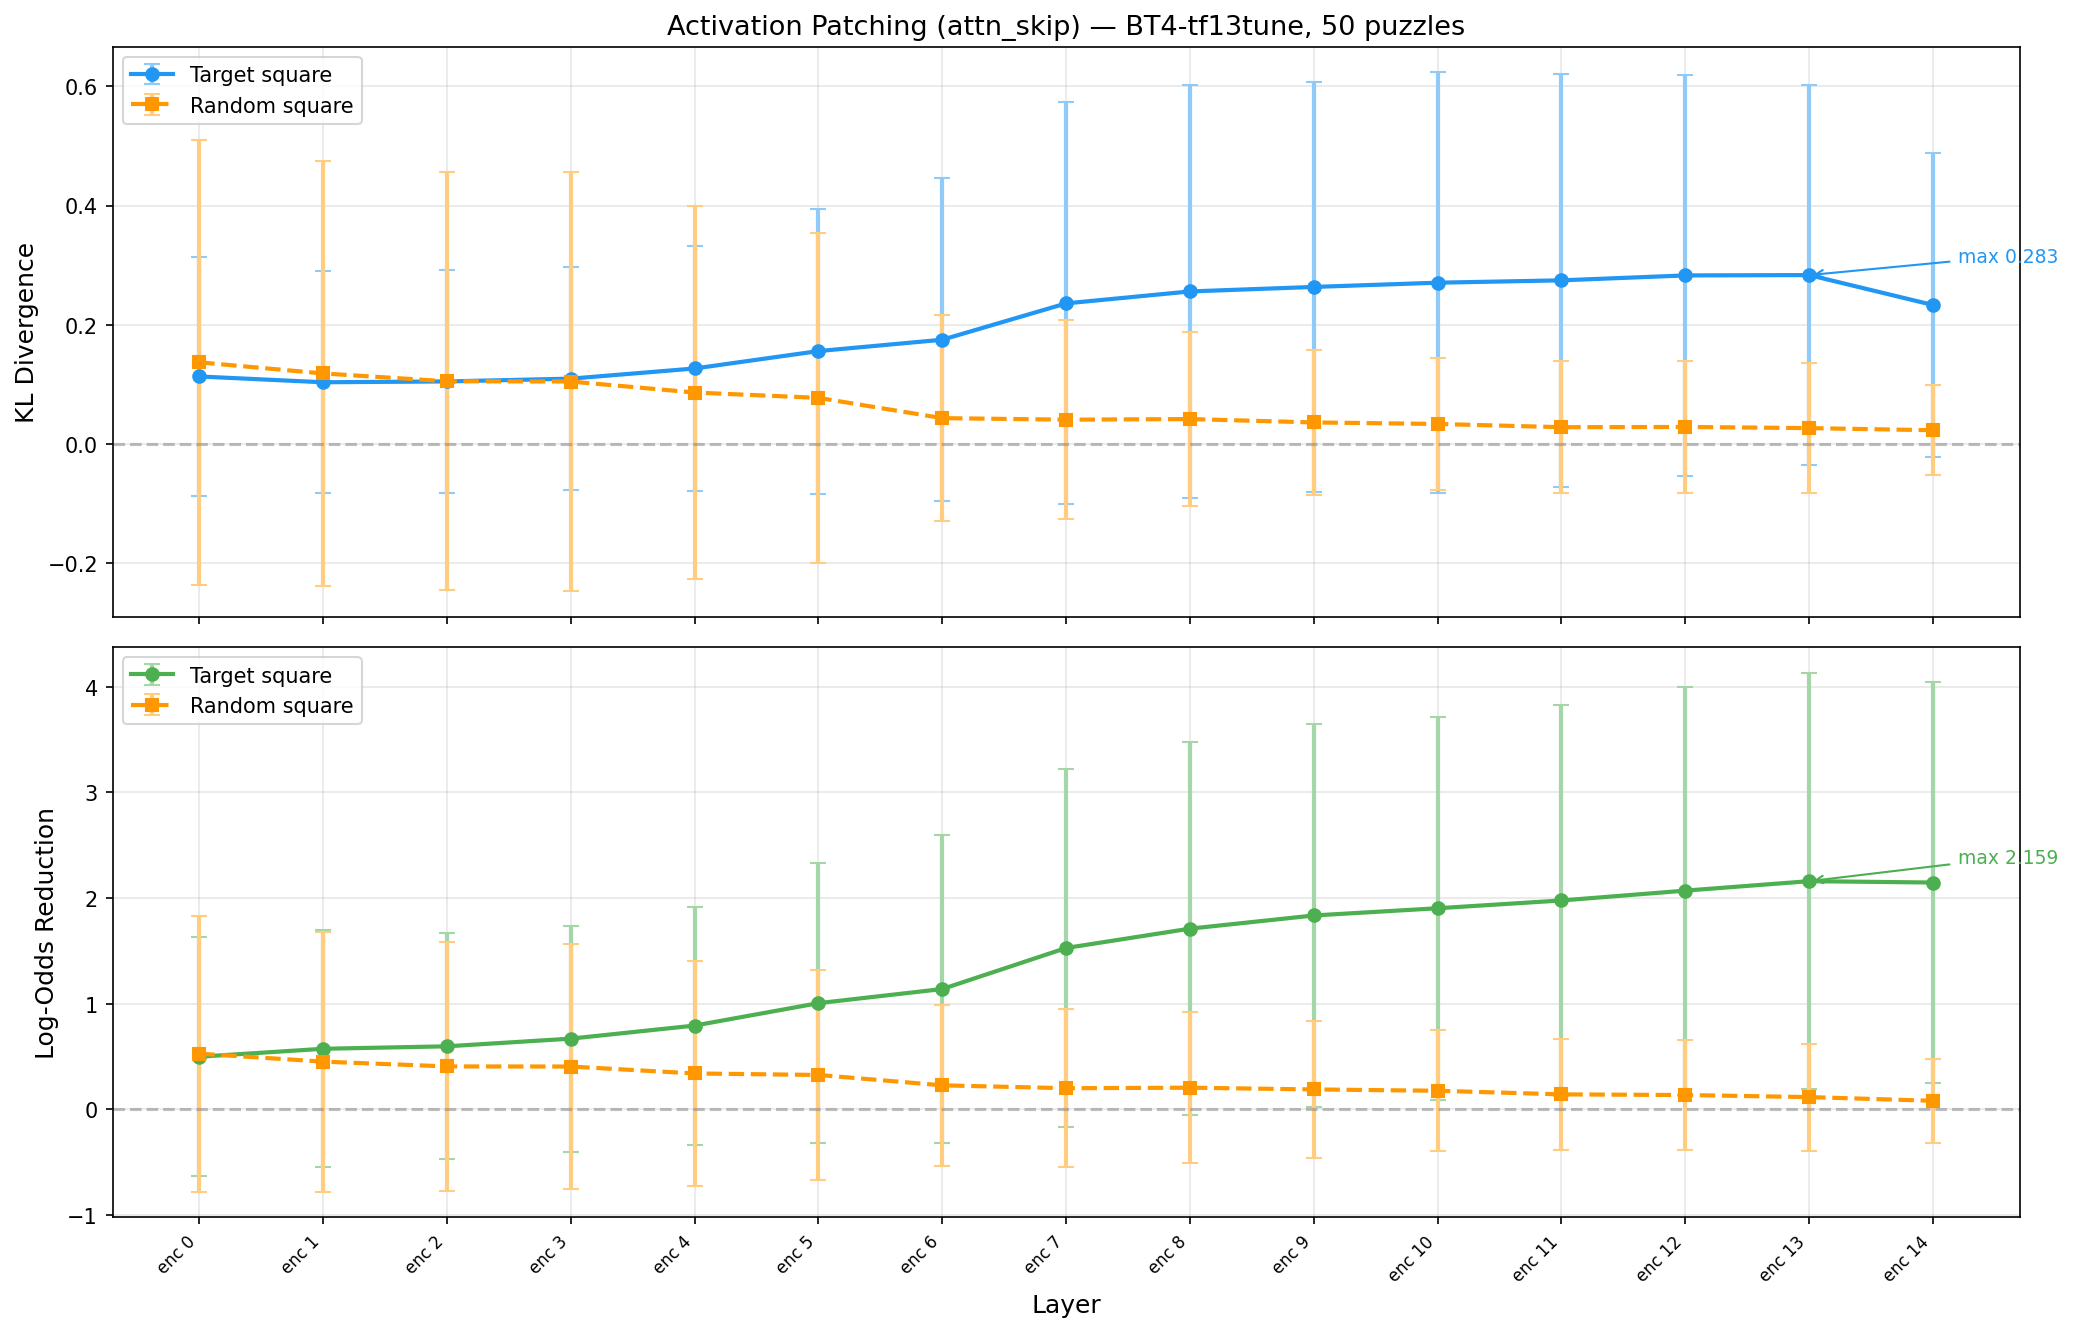
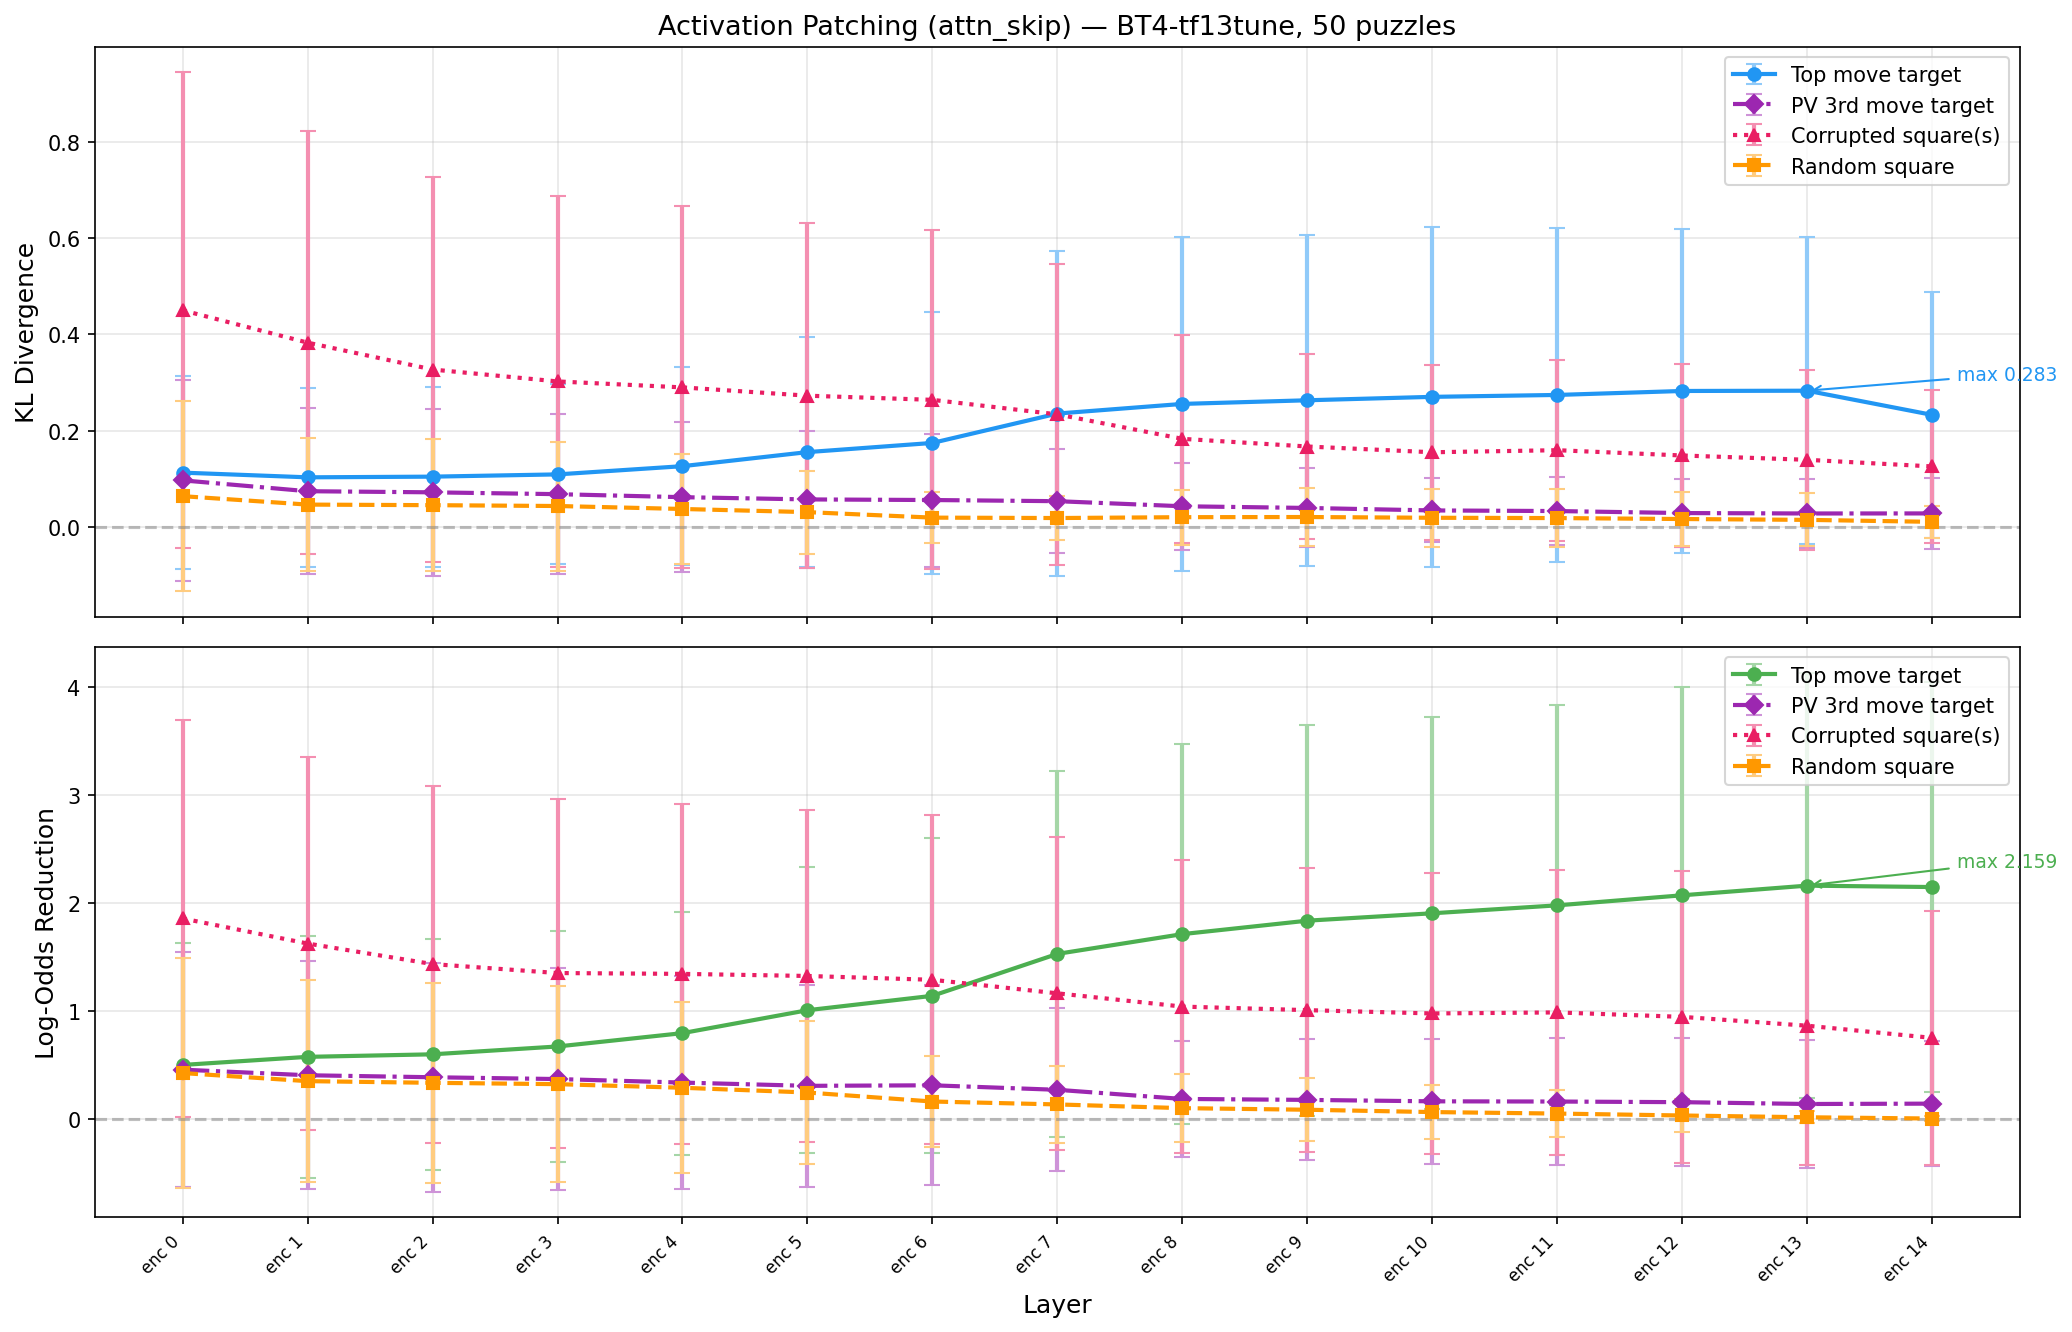
work

diff --git a/leela_interp/activation_patching.py b/leela_interp/activation_patching.py
@@ -5,7 +5,7 @@ Usage:
 
 Metrics: KL divergence + log-odds reduction of correct move.
 """
-import pickle, warnings, argparse, sys, numpy as np, torch, matplotlib.pyplot as plt
+import pickle, warnings, argparse, sys, numpy as np, torch, matplotlib.pyplot as plt, chess
 from tqdm import tqdm
 
 warnings.filterwarnings("ignore", category=UserWarning)
@@ -13,7 +13,7 @@ warnings.filterwarnings("ignore", category=UserWarning)
 sys.path.insert(0, "leela_pytorch_impl")
 from model import Lc0Model
 from leela_board import LeelaBoard
-from utils import sq2idx
+from utils import sq2idx, idx2sq
 
 N_PUZZLES = 50
 N_LAYERS = 15
@@ -37,7 +37,7 @@ def log_odds_reduction(clean_logits, patched_logits, correct_idx):
 def parse_args():
     p = argparse.ArgumentParser()
     p.add_argument("--model", default="leela_pytorch_impl/lc0.onnx")
-    p.add_argument("--device", default="cpu")
+    p.add_argument("--device", default="cuda" if torch.cuda.is_available() else "cpu")
     p.add_argument("--n-puzzles", type=int, default=N_PUZZLES)
     p.add_argument("--patch-what", default="attn_skip",
                    choices=["ffn_skip", "attn_skip", "ln2"],
@@ -108,12 +108,18 @@ def main():
     N_VALID = sum(1 for n in valid_names if n is not None)
     print(f"Patching at {N_VALID} layers (patch_what={args.patch_what})")
 
-    # --- Run patching (two conditions: move squares vs random square) ---
+    model_name = args.model.split("/")[-1].replace(".onnx", "")
+
+    # --- Run patching (four conditions: top move target, PV 3rd move target, random, corrupted s) ---
     results_move = {i: [] for i in range(len(valid_names))}
     results_random = {i: [] for i in range(len(valid_names))}
+    results_third = {i: [] for i in range(len(valid_names))}
+    results_corrupted = {i: [] for i in range(len(valid_names))}
     # Also track log-odds reduction
     lodds_move = {i: [] for i in range(len(valid_names))}
     lodds_random = {i: [] for i in range(len(valid_names))}
+    lodds_third = {i: [] for i in range(len(valid_names))}
+    lodds_corrupted = {i: [] for i in range(len(valid_names))}
 
     for row, base_kl in tqdm(selected, desc="Puzzles"):
         cb = LeelaBoard.from_fen(row["FEN"])
@@ -134,10 +140,33 @@ def main():
         # Get the correct move index (model's top move on clean position)
         correct_idx = clean_logits.argmax().item()
 
-        # Pick a random square that is NOT the target
+        # Get the 3rd move target from the puzzle's principal_variation
+        # (the 3rd ply in the solution sequence = 2nd correct move by first player)
+        pv = row["principal_variation"]
+        if len(pv) >= 3:
+            third_uci = pv[2]  # 3rd move in the solution sequence
+            third_to_sq = sq2idx(third_uci[2:4], cb.pc_board.turn)
+            third_squares = [third_to_sq]
+        else:
+            third_squares = move_squares  # fallback if PV is too short
+
+        # Find squares that differ between clean and corrupted FEN
+        corrupted_sqs = []
+        for sq_idx in range(64):
+            sq_name = idx2sq(sq_idx, cb.pc_board.turn)
+            file = ord(sq_name[0]) - ord('a')
+            rank = int(sq_name[1]) - 1
+            chess_sq = chess.square(file, rank)
+            if cb.pc_board.piece_at(chess_sq) != crb.pc_board.piece_at(chess_sq):
+                corrupted_sqs.append(sq_idx)
+        if not corrupted_sqs:
+            corrupted_sqs = [to_sq]  # fallback
+
+        # Pick a random square that is NOT any target or corrupted square
         all_squares = list(range(64))
-        candidates = [s for s in all_squares if s != to_sq]
-        random_sq = [int(np.random.choice(candidates))]
+        exclude = {to_sq, third_squares[0]} | set(corrupted_sqs)
+        candidates = [s for s in all_squares if s not in exclude]
+        random_sq = [int(np.random.choice(candidates))] if candidates else [to_sq]
 
         # --- Capture corrupted activations (once for all layers) ---
         corrupted_acts = {}
@@ -154,13 +183,17 @@ def main():
         for h in hooks:
             h.remove()
 
-        # --- Patch each layer with BOTH move squares and random square ---
+        # --- Patch each layer with ALL THREE conditions ---
         for layer_idx, layer_name in enumerate(valid_names):
             if layer_name is None or layer_name not in corrupted_acts:
                 results_move[layer_idx].append(np.nan)
                 results_random[layer_idx].append(np.nan)
+                results_third[layer_idx].append(np.nan)
+                results_corrupted[layer_idx].append(np.nan)
                 lodds_move[layer_idx].append(np.nan)
                 lodds_random[layer_idx].append(np.nan)
+                lodds_third[layer_idx].append(np.nan)
+                lodds_corrupted[layer_idx].append(np.nan)
                 continue
 
             corr_act = corrupted_acts[layer_name]
@@ -189,18 +222,42 @@ def main():
             results_random[layer_idx].append(kl_divergence(clean_logits, patched_out[0][0]))
             lodds_random[layer_idx].append(log_odds_reduction(clean_logits, patched_out[0][0], correct_idx))
 
-    # --- Plot both conditions ---
+            # --- 3rd move target square patch ---
+            h = mod.register_forward_hook(make_patch_hook(corr_act, third_squares))
+            with torch.no_grad():
+                patched_out = inner(ci)
+            h.remove()
+            results_third[layer_idx].append(kl_divergence(clean_logits, patched_out[0][0]))
+            lodds_third[layer_idx].append(log_odds_reduction(clean_logits, patched_out[0][0], correct_idx))
+
+            # --- Corrupted squares patch ---
+            h = mod.register_forward_hook(make_patch_hook(corr_act, corrupted_sqs))
+            with torch.no_grad():
+                patched_out = inner(ci)
+            h.remove()
+            results_corrupted[layer_idx].append(kl_divergence(clean_logits, patched_out[0][0]))
+            lodds_corrupted[layer_idx].append(log_odds_reduction(clean_logits, patched_out[0][0], correct_idx))
+
+    # --- Plot all four conditions ---
     label_idx = 0
     labels = []
     move_means, move_stds = [], []
     rand_means, rand_stds = [], []
+    third_means, third_stds = [], []
+    corr_means, corr_stds = [], []
     lodd_move_means, lodd_move_stds = [], []
     lodd_rand_means, lodd_rand_stds = [], []
+    lodd_third_means, lodd_third_stds = [], []
+    lodd_corr_means, lodd_corr_stds = [], []
     for i, name in enumerate(valid_names):
         move_vals = [v for v in results_move[i] if not np.isnan(v)]
         rand_vals = [v for v in results_random[i] if not np.isnan(v)]
+        third_vals = [v for v in results_third[i] if not np.isnan(v)]
+        corr_vals = [v for v in results_corrupted[i] if not np.isnan(v)]
         lodd_mv = [v for v in lodds_move[i] if not np.isnan(v)]
         lodd_rv = [v for v in lodds_random[i] if not np.isnan(v)]
+        lodd_tv = [v for v in lodds_third[i] if not np.isnan(v)]
+        lodd_cv = [v for v in lodds_corrupted[i] if not np.isnan(v)]
         if move_vals:
             if name is not None and "attn_body" in name:
                 labels.append("embed+FFN")
@@ -214,12 +271,19 @@ def main():
             move_stds.append(np.std(move_vals))
             rand_means.append(np.mean(rand_vals))
             rand_stds.append(np.std(rand_vals))
+            third_means.append(np.mean(third_vals))
+            third_stds.append(np.std(third_vals))
+            corr_means.append(np.mean(corr_vals))
+            corr_stds.append(np.std(corr_vals))
             lodd_move_means.append(np.mean(lodd_mv))
             lodd_move_stds.append(np.std(lodd_mv))
             lodd_rand_means.append(np.mean(lodd_rv))
             lodd_rand_stds.append(np.std(lodd_rv))
+            lodd_third_means.append(np.mean(lodd_tv))
+            lodd_third_stds.append(np.std(lodd_tv))
+            lodd_corr_means.append(np.mean(lodd_cv))
+            lodd_corr_stds.append(np.std(lodd_cv))
 
-    model_name = args.model.split("/")[-1].replace(".onnx", "")
     xs = np.arange(len(move_means))
 
     # --- Two subplots: KL and Log-Odds Reduction ---
@@ -227,7 +291,13 @@ def main():
 
     # === Top: KL Divergence ===
     ax1.errorbar(xs, move_means, yerr=move_stds, marker="o", capsize=4, linewidth=2,
-                 markersize=6, color="#2196F3", ecolor="#90CAF9", label="Target square")
+                 markersize=6, color="#2196F3", ecolor="#90CAF9", label="Top move target")
+    ax1.errorbar(xs, third_means, yerr=third_stds, marker="D", capsize=4, linewidth=2,
+                 markersize=6, color="#9C27B0", ecolor="#CE93D8", linestyle="-.",
+                 label="PV 3rd move target")
+    ax1.errorbar(xs, corr_means, yerr=corr_stds, marker="^", capsize=4, linewidth=2,
+                 markersize=6, color="#E91E63", ecolor="#F48FB1", linestyle=":",
+                 label="Corrupted square(s)")
     ax1.errorbar(xs, rand_means, yerr=rand_stds, marker="s", capsize=4, linewidth=2,
                  markersize=6, color="#FF9800", ecolor="#FFCC80", linestyle="--",
                  label="Random square")
@@ -244,7 +314,13 @@ def main():
 
     # === Bottom: Log-Odds Reduction ===
     ax2.errorbar(xs, lodd_move_means, yerr=lodd_move_stds, marker="o", capsize=4, linewidth=2,
-                 markersize=6, color="#4CAF50", ecolor="#A5D6A7", label="Target square")
+                 markersize=6, color="#4CAF50", ecolor="#A5D6A7", label="Top move target")
+    ax2.errorbar(xs, lodd_third_means, yerr=lodd_third_stds, marker="D", capsize=4, linewidth=2,
+                 markersize=6, color="#9C27B0", ecolor="#CE93D8", linestyle="-.",
+                 label="PV 3rd move target")
+    ax2.errorbar(xs, lodd_corr_means, yerr=lodd_corr_stds, marker="^", capsize=4, linewidth=2,
+                 markersize=6, color="#E91E63", ecolor="#F48FB1", linestyle=":",
+                 label="Corrupted square(s)")
     ax2.errorbar(xs, lodd_rand_means, yerr=lodd_rand_stds, marker="s", capsize=4, linewidth=2,
                  markersize=6, color="#FF9800", ecolor="#FFCC80", linestyle="--",
                  label="Random square")
@@ -267,11 +343,14 @@ def main():
     plt.savefig(out_path, dpi=150, bbox_inches="tight")
     print(f"\nPlot saved to {out_path}")
 
-    print(f"\n{'Layer':<12} {'KL move':>8} {'KL rand':>8} {'Δ KL':>8}  |  {'LoR move':>8} {'LoR rand':>8} {'Δ LoR':>8}")
-    print("-" * 75)
+    print(f"\n{'Layer':<12} {'KL top':>8} {'KL 3rd':>8} {'KL corr':>8} {'KL rand':>8} {'Δ top':>8}  |  "
+          f"{'LoR top':>8} {'LoR 3rd':>8} {'LoR corr':>8} {'LoR rand':>8} {'Δ top':>8}")
+    print("-" * 115)
     for i, label in enumerate(labels):
-        print(f"{label:<12} {move_means[i]:8.4f} {rand_means[i]:8.4f} {move_means[i]-rand_means[i]:8.4f}  |  "
-              f"{lodd_move_means[i]:8.4f} {lodd_rand_means[i]:8.4f} {lodd_move_means[i]-lodd_rand_means[i]:8.4f}")
+        print(f"{label:<12} {move_means[i]:8.4f} {third_means[i]:8.4f} {corr_means[i]:8.4f} {rand_means[i]:8.4f} "
+              f"{move_means[i]-rand_means[i]:8.4f}  |  "
+              f"{lodd_move_means[i]:8.4f} {lodd_third_means[i]:8.4f} {lodd_corr_means[i]:8.4f} {lodd_rand_means[i]:8.4f} "
+              f"{lodd_move_means[i]-lodd_rand_means[i]:8.4f}")
 
     plt.show()
 

diff --git a/leela_pytorch_impl/model.py b/leela_pytorch_impl/model.py
@@ -67,28 +67,38 @@ class Lc0Model(torch.nn.Module):
 
         self._lc0_model = onnx2torch.convert(onnx_model)
 
-        # Auto-detect model architecture from the converted model.
+        # Auto-detect model architecture from the ONNX weights.
+        # onnx2torch wraps weights in modules that don't expose them as nn.Parameter,
+        # so we read D_MODEL directly from the ONNX graph initializers.
         n_initializers = _count_onnx_initializers(self._lc0_model)
-        has_smolgen = hasattr(self._lc0_model, "encoder0/smolgen/compress")
-        self._is_bt4 = has_smolgen
 
-        # Detect D_MODEL from the first encoder's Q weight shape.
-        # For BT4: encoder0/mha/Q/w has shape (D_MODEL, D_MODEL)
-        # For original: similar naming
-        q_weight_name = "encoder0/mha/Q/w"
-        if hasattr(self._lc0_model, q_weight_name):
-            q_module = getattr(self._lc0_model, q_weight_name)
-            # onnx2torch wraps weights; find the weight tensor
-            for param in q_module.parameters():
-                self.D_MODEL = param.shape[0]
-                self.N_HEADS = 32 if has_smolgen else 24
+        # Read D_MODEL from the first encoder's Q weight in the ONNX graph.
+        d_model = None
+        q_init_name = "/encoder0/mha/Q/w/w"  # onnx2torch naming convention
+        for init in onnx_model.graph.initializer:
+            if init.name == q_init_name or init.name.endswith("encoder0/mha/Q/w/w"):
+                d_model = init.dims[0]
                 break
-            else:
-                self.D_MODEL = 1024 if has_smolgen else 768
-                self.N_HEADS = 32 if has_smolgen else 24
+        # Fallback: try checking the converted model's initializers
+        if d_model is None:
+            for i in range(n_initializers):
+                t = getattr(self._lc0_model.initializers, f"onnx_initializer_{i}", None)
+                if isinstance(t, torch.Tensor) and t.ndim == 2 and t.shape[0] == t.shape[1]:
+                    if t.shape[0] in (768, 1024):
+                        d_model = t.shape[0]
+                        break
+
+        if d_model is not None:
+            self.D_MODEL = d_model
+            self.N_HEADS = d_model // 32  # head_dim is always 32 for standard lc0
         else:
-            self.D_MODEL = 1024 if has_smolgen else 768
-            self.N_HEADS = 32 if has_smolgen else 24
+            # Last resort fallback (shouldn't happen)
+            self.D_MODEL = 768
+            self.N_HEADS = 24
+
+        # BT4 has D_MODEL=1024; original T78 has D_MODEL=768
+        has_smolgen = hasattr(self._lc0_model, "encoder0/smolgen/compress")
+        self._is_bt4 = self.D_MODEL == 1024
 
         print(f"Detected model: D_MODEL={self.D_MODEL}, N_HEADS={self.N_HEADS}, "
               f"Smolgen={has_smolgen}, Initializers={n_initializers}")
